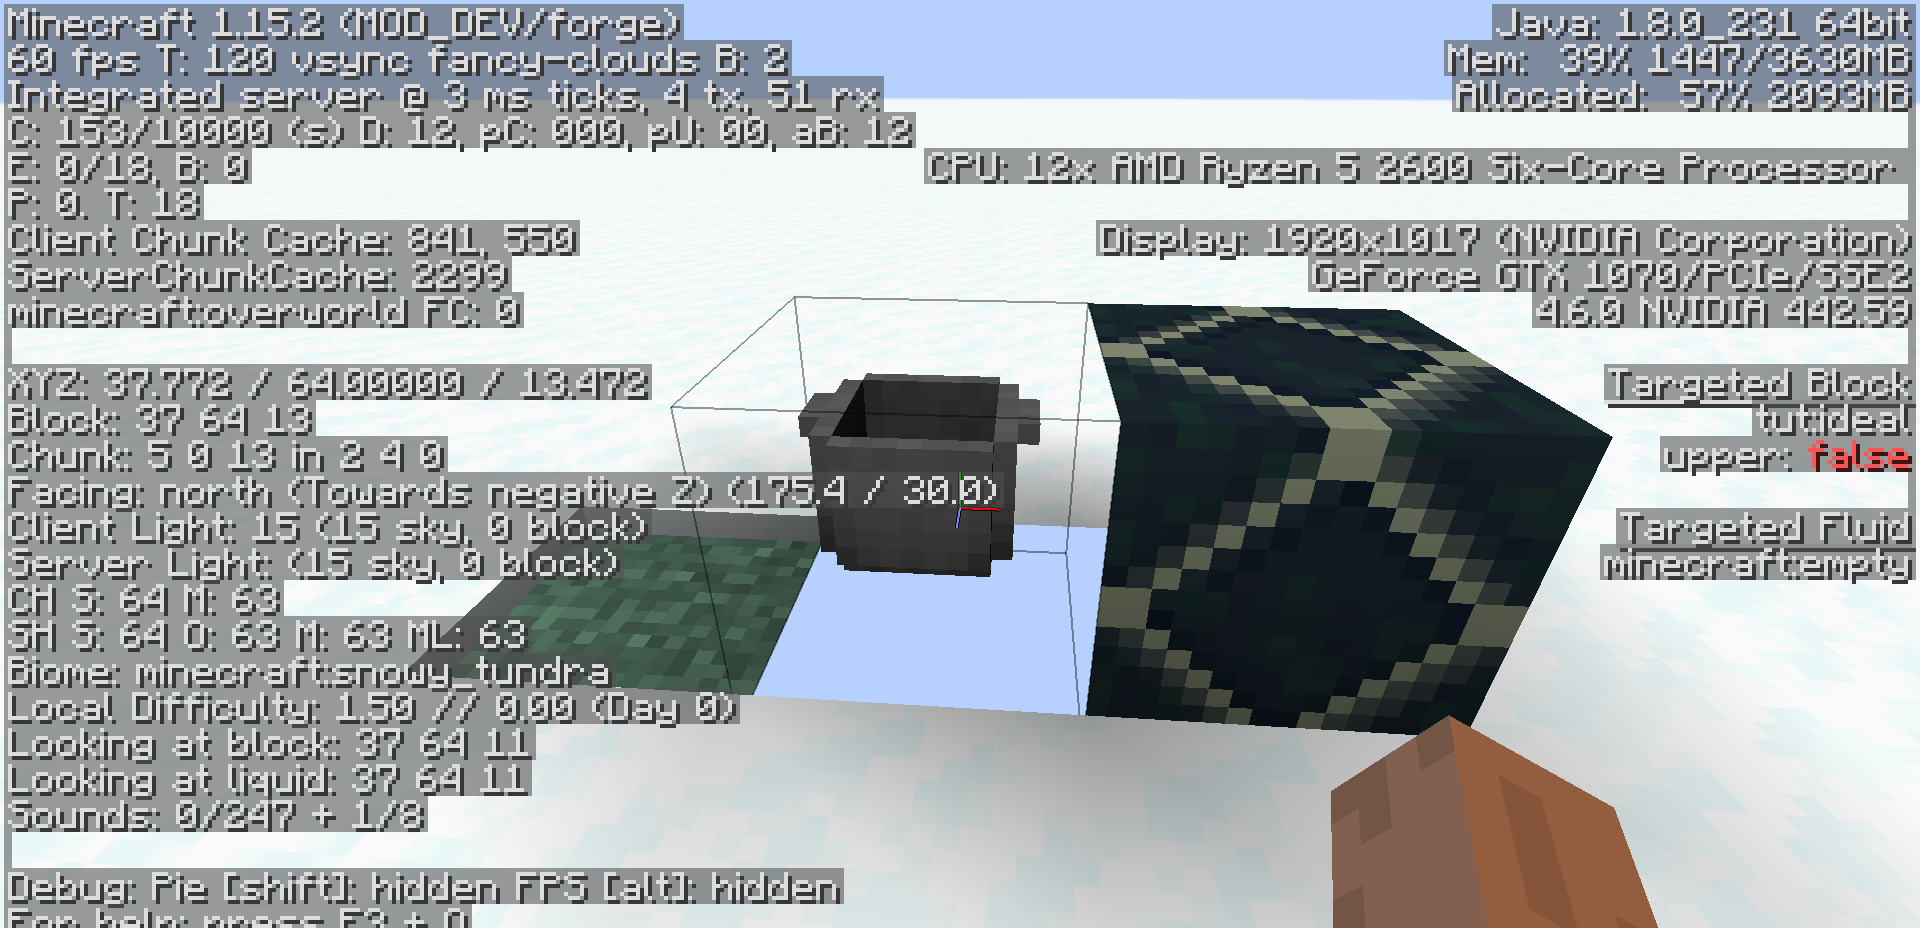
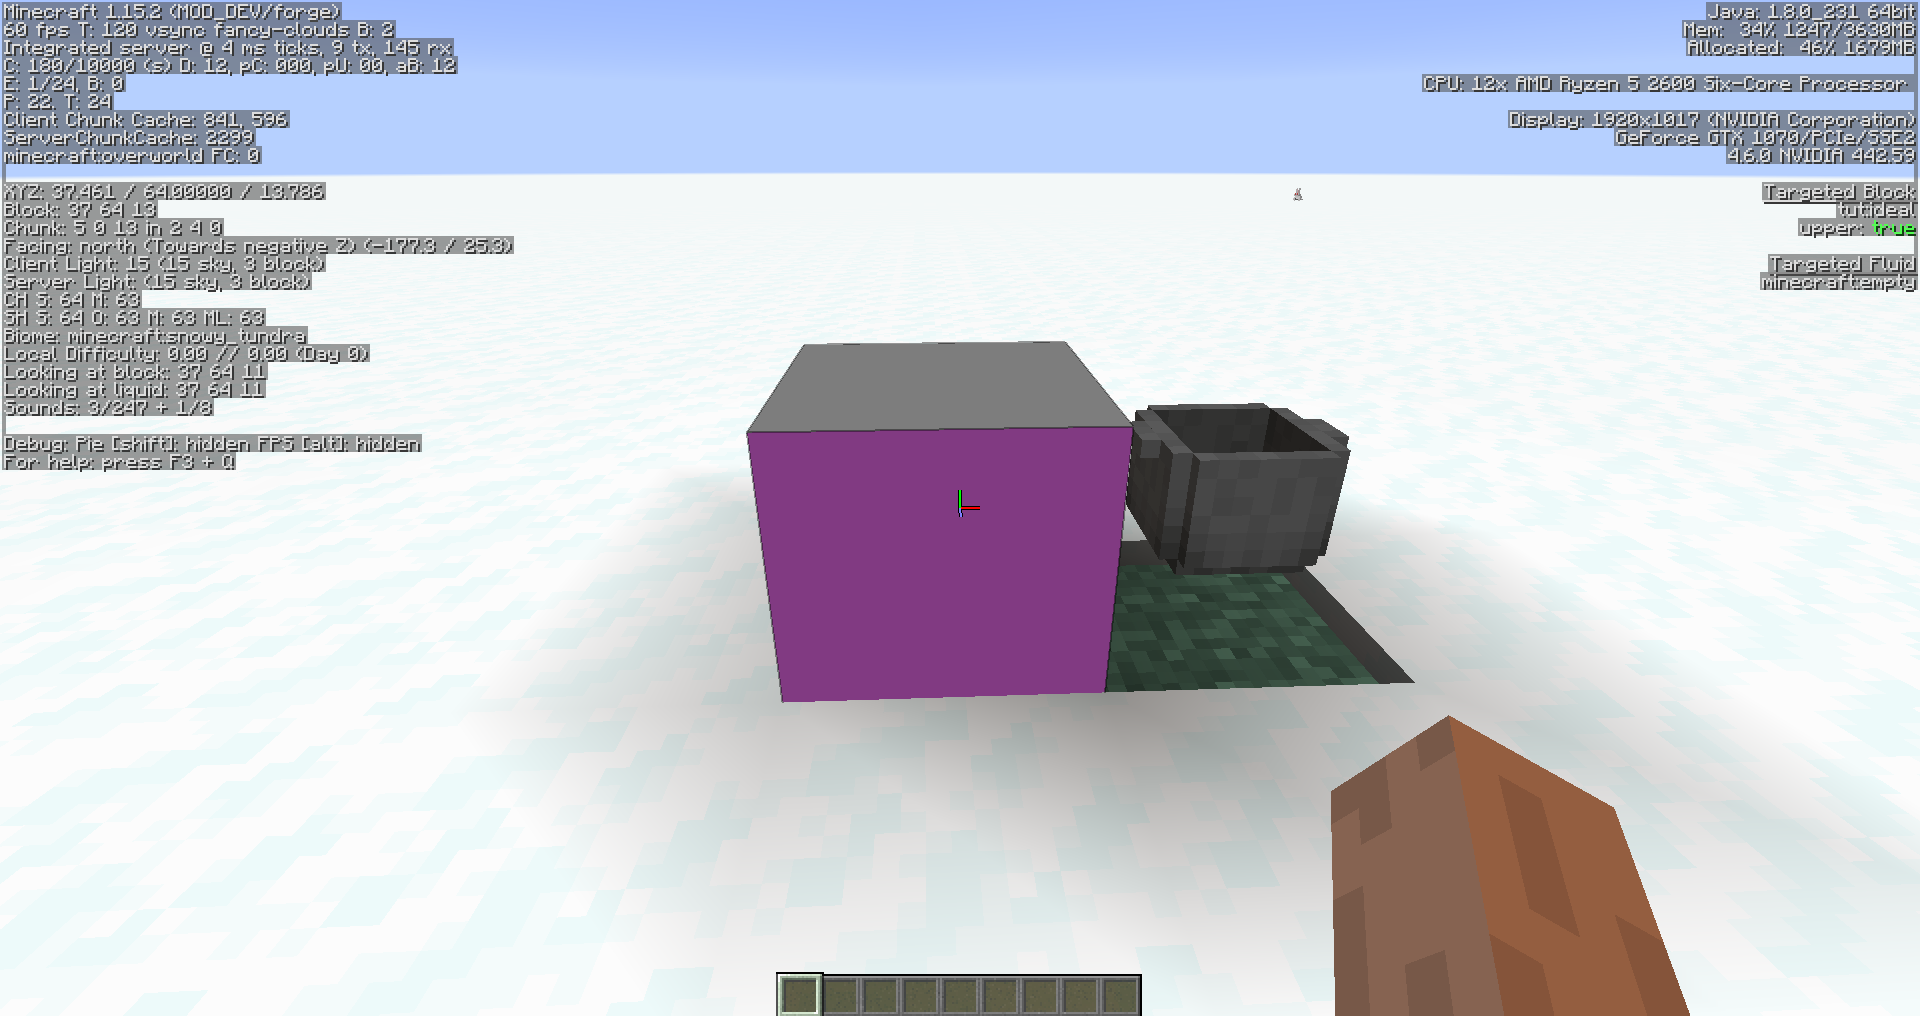
поправила стейты

diff --git a/docs/1.15/block/fluid/index.md b/docs/1.15/block/fluid/index.md
@@ -1,0 +1,249 @@
+description: Создание собственной жидкости.
+
+# Создание блока
+
+## Основа
+
+Создадим класс для нашего блока.
+
+```java
+public class IdealBlock extends Block
+{
+    public IdealBlock()
+    {
+        super(Properties.create(Material.ROCK).harvestTool(ToolType.PICKAXE));
+    }
+
+    @Override
+    public List<ItemStack> getDrops(BlockState state, LootContext.Builder builder)
+    {
+        return ImmutableList.of(new ItemStack(Items.CAKE, 8), new ItemStack(Items.TORCH, 1));
+    }
+}
+```
+
+* `create` - Создает Properties с материалом Material.ROCK.
+* `harvestTool` - задает тип эффективного инструмента.
+* `getDrops` - возвращает список предметов, которые должны выпасть с блока. 8 тортиков и 1 факел.
+
+
+Также можно вынести Properties в конструктор.
+Все параметры Properties:
+* `create` - Создает Properties с заданым материалом.
+* `harvestTool` - Задает тип эффективного инструмента.
+* `notSolid` - Для блоков с моделями чтоб не создавать эффект X-rey.
+* `lightValue` - Задает силу свечения.
+* `lootFrom` - Копирует дроп с другово блока.
+* `speedFactor` - Задает множитель скорости(как у льда).
+* `sound` - Звук для хождения.
+* `doesNotBlockMovement` - Делаем недвигаемым для поршня.
+* `hardnessAndResistance` - Задает прочность и взрывоустойчивость
+* `jumpFactor` - Задает множитель прыжка(как блок меда)
+* `noDrops` - Отменяет какой - либо дроп.
+* `slipperiness` - Скользкость(как у льда)
+* `tickRandomly` - Делает блок "случайным" дял обновления(любые растения)
+* `variableOpacity` - отбрасывает ли тень(для блоков с моделькой)
+
+## Регистрация
+
+Создадим класс TutBlocks, пустой интерфейс INonItem.
+
+```java
+@Mod.EventBusSubscriber(modid = TestMod.MOD_ID, bus = Mod.EventBusSubscriber.Bus.MOD)
+public class TutBlocks
+{
+    private static final DeferredRegister<Block> BLOCKS = new DeferredRegister<>(ForgeRegistries.BLOCKS, TestMod.MOD_ID);
+
+    public static final RegistryObject<Block> IDEAL = BLOCKS.register("ideal",  IdealBlock::new);
+
+    public static void register()
+    {
+        BLOCKS.register(FMLJavaModLoadingContext.get().getModEventBus());
+    }
+
+    @SubscribeEvent
+    public static void onRegisterItems(final RegistryEvent.Register<Item> event)
+    {
+        final IForgeRegistry<Item> registry = event.getRegistry();
+        TutBlocks.BLOCKS.getEntries().stream()
+                .map(RegistryObject::get)
+                .filter(block -> !(block instanceof INonItem))
+                .forEach(block -> {
+                    final Item.Properties prop = new Item.Properties();
+                    final BlockItem blockItem = new BlockItem(block, prop);
+                    blockItem.setRegistryName(block.getRegistryName());
+                    registry.register(blockItem);
+                });
+    }
+}
+```
+
+* `register(block)` - регестрирует блоки.
+* `IDEAL` - обьект регистрации нашего блока. Чтоб получить сам блок нужно вызвать метод get().
+* `onRegisterItems` - регестрирует предметы для блоков которые не наследуют INonItem.
+* `INonItem` - пустой интерфейс для отмены регистрации предмета.
+
+Нам нужно добавить в конструктор основоного класса TutBlocks.register() для регистрации блоков.
+Теперь можете запустить Minecraft нажав на кнопку `run` и посмотреть свой блок в живую. Чтобы получить блок пропишите `/give @p tut:ideal`.
+Вместо `tut` у Вас должен быть `modid` вашего мода! Вместо `ideal` у Вас должно быть регистрируемое имя вашего блока.
+
+[![Блок от первого лица](images/face_first.png)](images/face_first.png)
+
+[![Блок от третьего лица](images/face_three.png)](images/face_three.png)
+
+## Модель
+
+Создадим файл `ideal.json`. По пути:
+```md
+└── src    
+    └── main
+        └── resources
+            └── assets
+                └── tut
+                    └── blockstates
+```
+С содержанием:
+```json
+{
+    "variants": {
+        "": { "model": "tut:block/ideal" }
+    }
+}
+```
+В этом файле будет хранится информация о состояниях блоков. (Подробнее про состояние блоков, вы сможете прочитать в следующей статье)
+Теперь вы должны создать модель блока, вы можете создать как наследника стандартного блока, примером может послужить камень, так и свою собственную. Вот пример стандартной модели:
+
+```json
+{
+    "parent": "block/cube_all",
+    "textures": {
+        "all": "tut:blocks/ideal"
+    }
+}
+```
+Если ваша текстура к модели берётся из самого Minecraft, то `tut:`(modid) прописывать не надо! В примере с объёмной моделью я решил использовать текстуру камня из Minecraft.
+Название файла должно быть таким же как и в `blockstates` -> `ideal`, в переменной `model`!
+
+Пример сложной модели(Позаимствован из Туманного мира с разрешением Liahim):
+```json
+{
+    "textures": {
+        "particle": "tut:blocks/campfire_pot",
+        "pot": "tut:blocks/campfire_pot"
+    },
+    "elements": [
+        {
+            "name": "pot D",
+            "from": [  4.5, 6.0,  4.5 ],
+            "to":   [ 11.5, 8.0, 11.5 ],
+            "faces": {
+                "north": { "texture": "#pot", "uv": [ 5.0, 14.0, 12.0, 16.0 ] },
+                "east":  { "texture": "#pot", "uv": [ 5.0, 14.0, 12.0, 16.0 ] },
+                "south": { "texture": "#pot", "uv": [ 5.0, 14.0, 12.0, 16.0 ] },
+                "west":  { "texture": "#pot", "uv": [ 5.0, 14.0, 12.0, 16.0 ] },
+                "up":    { "texture": "#pot", "uv": [ 5.0,  7.0, 12.0, 14.0 ] },
+                "down":  { "texture": "#pot", "uv": [ 5.0,  7.0, 12.0, 14.0 ] }
+            }
+        },
+        {
+            "name": "pot N",
+            "from": [  4.5,  7.0, 3.5 ],
+            "to":   [ 11.5, 13.0, 4.5 ],
+            "faces": {
+                "north": { "texture": "#pot", "uv": [ 5.0,  0.0, 12.0,  6.0 ] },
+                "east":  { "texture": "#pot", "uv": [ 4.0,  0.0,  5.0,  6.0 ] },
+                "south": { "texture": "#pot", "uv": [ 5.0,  9.0, 12.0, 15.0 ] },
+                "west":  { "texture": "#pot", "uv": [ 4.0,  0.0,  5.0,  6.0 ] },
+                "up":    { "texture": "#pot", "uv": [ 5.0,  6.0, 12.0,  7.0 ] },
+                "down":  { "texture": "#pot", "uv": [ 5.0, 15.0, 12.0, 16.0 ] }
+            }
+        },
+        {
+            "name": "pot E",
+            "from": [ 11.5,  7.0,  4.5 ],
+            "to":   [ 12.5, 13.0, 11.5 ],
+            "faces": {
+                "north": { "texture": "#pot", "uv": [  4.0,  0.0,  5.0,  6.0 ] },
+                "east":  { "texture": "#pot", "uv": [  5.0,  0.0, 12.0,  6.0 ] },
+                "south": { "texture": "#pot", "uv": [  4.0,  0.0,  5.0,  6.0 ] },
+                "west":  { "texture": "#pot", "uv": [  5.0,  9.0, 12.0, 15.0 ] },
+                "up":    { "texture": "#pot", "uv": [ 12.0,  7.0, 13.0, 14.0 ] },
+                "down":  { "texture": "#pot", "uv": [  5.0, 15.0, 12.0, 16.0 ] }
+            }
+        },
+        {
+            "name": "pot S",
+            "from": [  4.5,  7.0, 11.5 ],
+            "to":   [ 11.5, 13.0, 12.5 ],
+            "faces": {
+                "north": { "texture": "#pot", "uv": [ 5.0,  9.0, 12.0, 15.0 ] },
+                "east":  { "texture": "#pot", "uv": [ 4.0,  0.0,  5.0,  6.0 ] },
+                "south": { "texture": "#pot", "uv": [ 5.0,  0.0, 12.0,  6.0 ] },
+                "west":  { "texture": "#pot", "uv": [ 4.0,  0.0,  5.0,  6.0 ] },
+                "up":    { "texture": "#pot", "uv": [ 5.0, 14.0, 12.0, 15.0 ] },
+                "down":  { "texture": "#pot", "uv": [ 5.0, 15.0, 12.0, 16.0 ] }
+            }
+        },
+        {
+            "name": "pot W",
+            "from": [ 3.5,  7.0,  4.5 ],
+            "to":   [ 4.5, 13.0, 11.5 ],
+            "faces": {
+                "north": { "texture": "#pot", "uv": [  4.0,  0.0,  5.0,  6.0 ] },
+                "east":  { "texture": "#pot", "uv": [  5.0,  0.0, 12.0,  6.0 ] },
+                "south": { "texture": "#pot", "uv": [  4.0,  0.0,  5.0,  6.0 ] },
+                "west":  { "texture": "#pot", "uv": [  5.0,  0.0, 12.0,  6.0 ] },
+                "up":    { "texture": "#pot", "uv": [  4.0,  7.0,  5.0, 14.0 ] },
+                "down":  { "texture": "#pot", "uv": [  5.0, 15.0, 12.0, 16.0 ] }
+            }
+        },
+        {
+            "name": "Handle E",
+            "from": [ 12.5, 12.0, 6.5 ],
+            "to":   [ 13.5, 13.0, 9.5 ],
+            "faces": {
+                "north": { "texture": "#pot", "uv": [  4.0,  0.0,  5.0,  1.0 ] },
+                "east":  { "texture": "#pot", "uv": [  7.0,  0.0, 10.0,  1.0 ] },
+                "south": { "texture": "#pot", "uv": [  4.0,  0.0,  5.0,  1.0 ] },
+                "up":    { "texture": "#pot", "uv": [ 13.0,  9.0, 14.0, 12.0 ] },
+                "down":  { "texture": "#pot", "uv": [  7.0, 15.0, 10.0, 16.0 ] }
+            }
+        },
+        {
+            "name": "Handle W",
+            "from": [ 2.5, 12.0, 6.5 ],
+            "to":   [ 3.5, 13.0, 9.5 ],
+            "faces": {
+                "north": { "texture": "#pot", "uv": [ 4.0,  0.0,  5.0,  1.0 ] },
+                "west":  { "texture": "#pot", "uv": [ 7.0,  0.0, 10.0,  1.0 ] },
+                "south": { "texture": "#pot", "uv": [ 4.0,  0.0,  5.0,  1.0 ] },
+                "up":    { "texture": "#pot", "uv": [ 3.0,  9.0,  4.0, 12.0 ] },
+                "down":  { "texture": "#pot", "uv": [ 7.0, 15.0, 10.0, 16.0 ] }
+            }
+        }
+    ]
+}
+```
+
+Теперь Вам надо создать `ideal.json`. По пути:
+```md
+└── src    
+    └── main
+        └── resources
+            └── assets
+                └── tut
+                    └── models
+                        └── item
+```
+```json
+{
+    "parent": "tut:block/ideal"
+}
+```
+С простой моделью:
+[![Блок с простой моделью](images/model_on_ground.png)](images/model_on_ground.png)
+Со сложной моделью:
+[![Блок с сложной моделью](images/model_face_three.png)](images/model_face_three.png)
+
+## Дроп через json
+Так же можно устанавливать дроп блока не через `getDrops`, а через json файл. И так создадим папку data в `assets\tut`.
